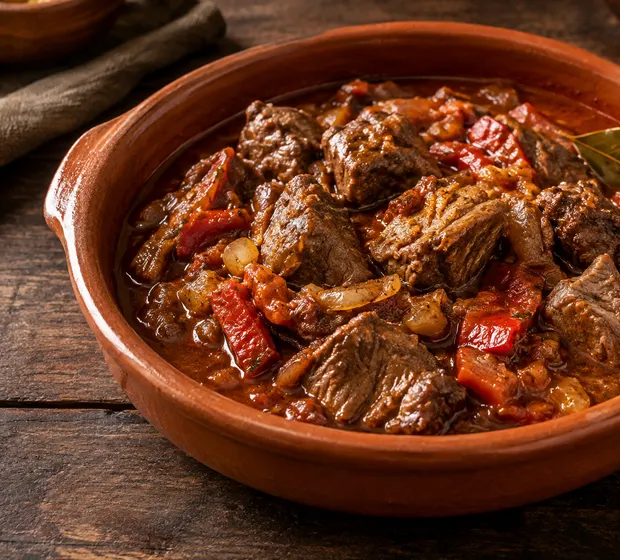
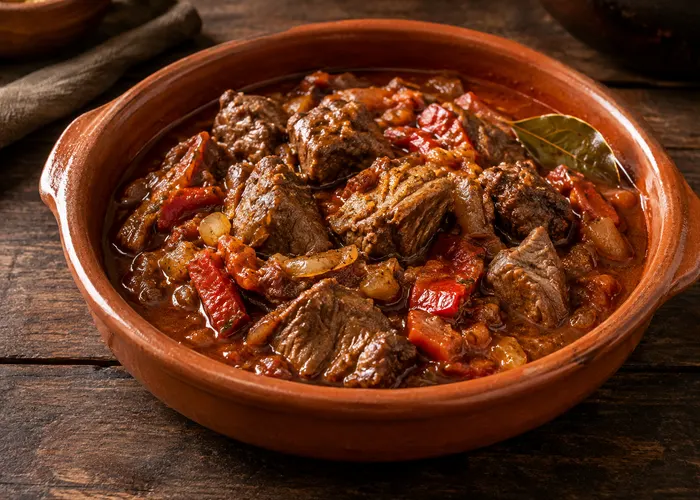
Las fotos de la portada dejan de recortarse, y la banda de El Baifo se centra
EL RECORTE

Se hizo al reves: primero el mosaico y luego a ver que cabia. El hueco grande
pedia 0,61 con fotos de 0,80, y los pequenos 0,93 con fotos de 1,50. Ahi se
iba casi el 40% del ancho de cada plato: al queso se le cortaban una loncha y
los dos mojos, al guiso el borde de la cazuela.

Ahora los huecos se calculan A PARTIR de las fotos. Con columnas de
1,2fr / 1fr, hueco de 1rem y el bloque en 1,52:

  grande    hueco 0,800  ·  foto 0,800  ->  no se recorta nada
  pequenas  hueco 1,408  ·  foto 1,400  ->  un 0,6%

Medido en el navegador, no a ojo.

Las dos pequenas se regeneran a 700x500 en vez de 620x560. Las proporciones
estan escritas en dos sitios -el CSS y api/scripts/fotos-portada.mjs- y cada
uno lo dice: son la misma decision, y tocar una sin la otra vuelve a cortar.

En el movil el hueco grande pedia 16/10 sobre una foto VERTICAL, que es el
peor recorte posible: se veia una tira del centro y desaparecian el cuenco y
los mojos. Pasa a 1,2, y el recorte se lleva la mesa de arriba en vez del
plato, con object-position al 62%.

LA BANDA

Apilada y centrada en vez de los tres trozos en una linea. En linea, los tres
pesos distintos -un rotulo de 11 px, un nombre de 27 y una nota de 14- se leen
como una frase que empieza a la izquierda aunque la caja este centrada.
Apilados, cada uno cae sobre el eje y el bloque se lee como lo que es: un
cartel.

diff --git a/web/src/styles/global.css b/web/src/styles/global.css
@@ -2828,15 +2828,22 @@ button {
   border-block: 1px dashed rgba(224, 169, 79, 0.45);
 }
 
+/*
+  Apilada y centrada, no los tres trozos en una linea.
+
+  En linea, los tres pesos distintos -un rotulo de 11 px, un nombre de 27 y
+  una nota de 14- se leen como una frase que empieza a la izquierda, aunque la
+  caja este centrada. Apilados, cada uno cae sobre el eje y el bloque se lee
+  como lo que es: un cartel.
+*/
 .proxima {
   display: flex;
-  flex-wrap: wrap;
-  align-items: baseline;
-  justify-content: center;
-  gap: 0.35rem 1rem;
+  flex-direction: column;
+  align-items: center;
+  gap: 0.15rem;
 
   margin: 0;
-  padding-block: 1.1rem;
+  padding-block: 1.4rem;
   text-align: center;
 }
 
@@ -3195,15 +3202,29 @@ button {
    sin que haya que tocar numeros, y sin que ninguna foto salga deformada.
    ===================================================================== */
 
+/*
+  LAS COLUMNAS Y LA PROPORCION VAN JUNTAS. Cambiar una sin la otra corta las
+  fotos, que es justo lo que paso la primera vez: el hueco grande pedia 0,61
+  con fotos de 0,80 y los pequenos 0,93 con fotos de 1,50, asi que el recorte
+  se comia casi el 40% del ancho de cada plato.
+
+  Con 1,2fr / 1fr, hueco de 1rem y el bloque en 1,52 sale:
+
+    grande    0,80  =  la proporcion nativa de la foto, no se recorta nada
+    pequenas  1,39 - 1,44 segun el ancho, sobre fotos de 1,50
+
+  Si se toca esto hay que tocar tambien api/scripts/fotos-portada.mjs, que es
+  donde se recortan las fotos: son la misma decision escrita en dos sitios.
+*/
 .mosaico {
   display: grid;
-  grid-template-columns: 1.45fr 1fr;
+  grid-template-columns: 1.2fr 1fr;
   grid-template-rows: 1fr 1fr;
-  gap: 0.85rem;
-  /* La proporcion del bloque entero. Sin esto, las dos filas de la derecha
-     se reparten la altura del contenido y la grande manda; con esto mandan
-     las tres a la vez y el bloque no da saltos al cargar. */
-  aspect-ratio: 5 / 4.6;
+  gap: 1rem;
+  /* Sin esto, las dos filas de la derecha se reparten la altura del contenido
+     y la grande manda; con esto mandan las tres a la vez y el bloque no da
+     saltos al cargar. */
+  aspect-ratio: 1.52;
 }
 
 .mosaico__pieza {
@@ -3256,13 +3277,31 @@ button {
     aspect-ratio: auto;
   }
 
+  /*
+    1,2 y no 16/10.
+
+    La foto grande es VERTICAL (0,80). Pedirle 1,60 en el movil era cortarla
+    en una tira horizontal: se veia una franja del centro y desaparecian el
+    cuenco y los mojos. A 1,20 se recorta arriba y abajo, que es donde hay
+    mesa, y el plato entra entero.
+
+    Mas alta que esto tampoco: en una pantalla de movil, la foto se comeria
+    la pantalla y el titulo se iria fuera de vista.
+  */
   .mosaico__pieza--grande {
     grid-column: 1 / -1;
     grid-row: auto;
-    aspect-ratio: 16 / 10;
+    aspect-ratio: 1.2;
   }
 
+  /* 1,4: la misma que traen recortadas, o sea sin recorte extra. */
   .mosaico__pieza:not(.mosaico__pieza--grande) {
-    aspect-ratio: 4 / 3;
+    aspect-ratio: 1.4;
+  }
+
+  /* El plato esta en la mitad de abajo en las tres fotos; los cuencos de mojo
+     y la mesa, arriba. Al recortar, se sacrifica lo de arriba. */
+  .mosaico__pieza--grande img {
+    object-position: center 62%;
   }
 }
